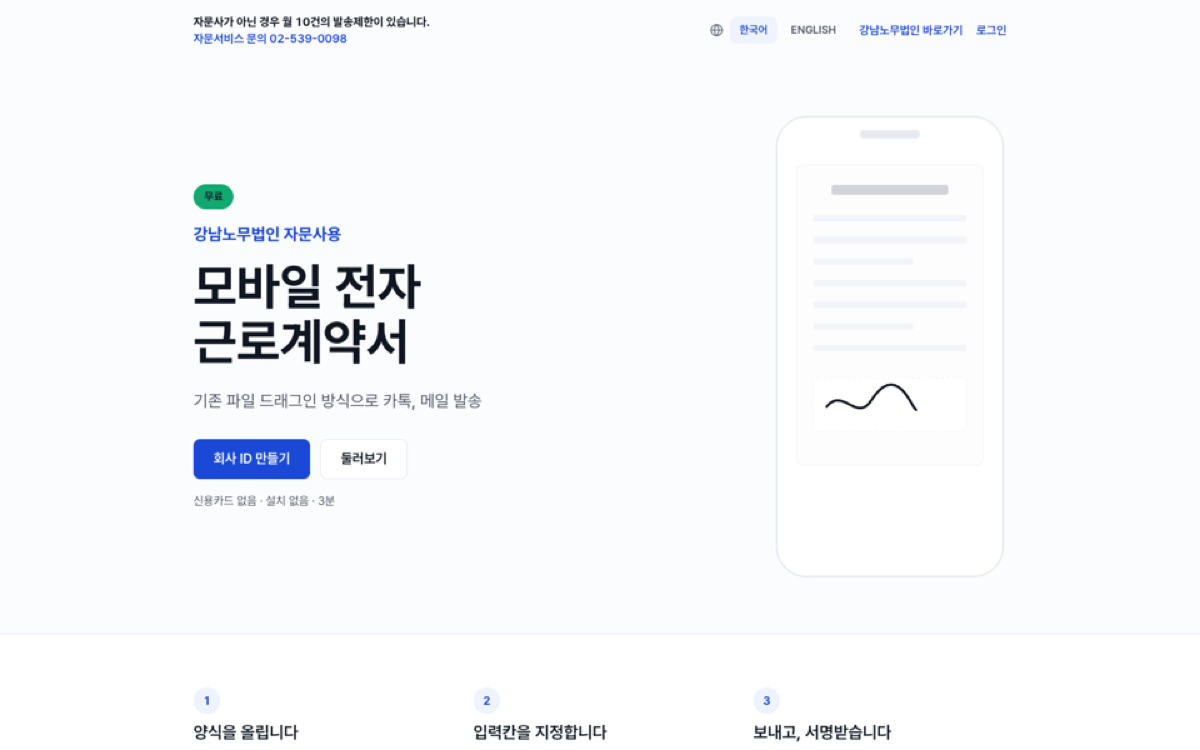
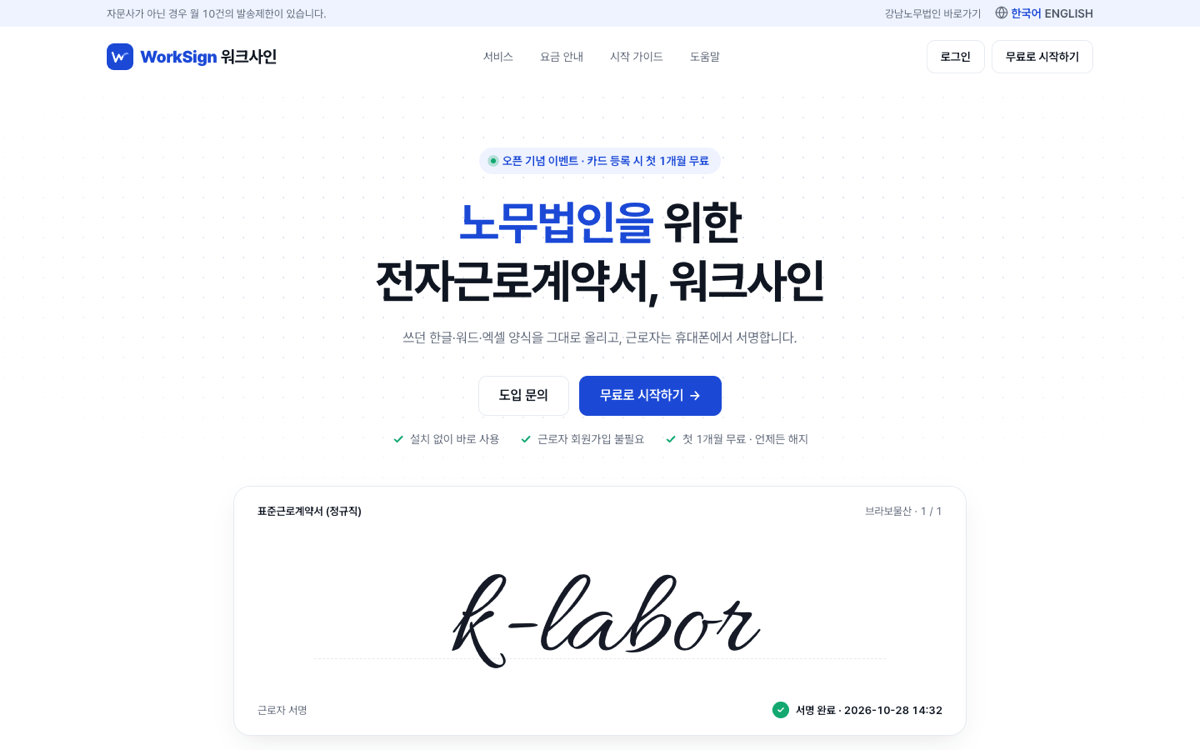
해커톤 출품작(바로시작) 상단 배치, WorkSign 개편 랜딩·GTO 커리큘럼 반영, 넷플릭스 단어장 추가

diff --git a/README.md b/README.md
@@ -3,6 +3,22 @@
 기획부터 배포까지 혼자 맡아, AI(Claude Code·Codex)를 개발 파트너로 써서 만든 결과물입니다.
 **AI가 코드를 쓰고, 저는 기획·설계·판단·검수를 맡습니다.** 명세 → 작업 계획 → 구현 → AI 다관점 검토 → 수정 순서로 반복합니다.
 
+## 고용노동부 고용24 AI 해커톤 출품작
+
+### 바로시작 — 국민취업지원제도 안내 시제품 (서류심사 통과)
+**https://cyb3rmaya.github.io/barosijak-demo/**
+
+메뉴가 많아 막막한 구직자에게 나이 질문 하나로 시작해, 해야 할 일을 날짜별로 정리해 주는 안내 시제품입니다.
+
+- **핵심 로직**: 대화로 상황 파악 → 수급자격 통지일 등 날짜로 이번 주 할 일·다가오는 기한·놓치면 사라지는 것 분류 → 큰 절차를 하루 한 가지 미션으로 쪼갬
+- **신뢰 설계**: 금액·기한은 AI가 만들지 않고 사람이 원문과 대조한 고정표만 사용 · 모든 안내에 업무매뉴얼 쪽수 근거 표기 · 자격 판정이 아님을 명시(최종 판단은 고용센터)
+
+| 시작 대화 | 내 날짜 일정 | 오늘의 미션 |
+|---|---|---|
+| <a href="https://cyb3rmaya.github.io/barosijak-demo/"><img src="shots/projects/barosijak/1-chat.png" width="220"></a> | <img src="shots/projects/barosijak/2-schedule.png" width="220"> | <img src="shots/projects/barosijak/3-mission.png" width="220"> |
+
+---
+
 ## 대표 프로젝트
 
 | | 서비스 | 링크 |
@@ -17,13 +33,20 @@
 ### 1. WorkSign — 모바일 전자근로계약서
 **https://worksign.co.kr**
 
-노무법인 의뢰로 만든 실서비스. 사업주가 한글·워드·PDF 계약서를 올려 입력칸을 지정하고 보내면, 근로자가 휴대폰으로 채우고 서명합니다. 서명 문서는 위·변조를 막도록 봉인됩니다.
+노무법인 의뢰로 만든 실서비스. 최근 랜딩을 4단계 흐름·기능 카드·근로자 휴대폰 시연 중심으로 전면 개편했습니다. 사업주가 한글·워드·PDF 계약서를 올려 입력칸을 지정하고 보내면, 근로자가 휴대폰으로 채우고 서명합니다. 서명 문서는 위·변조를 막도록 봉인됩니다.
 
 - **핵심 로직**: 문서 변환 → 입력칸 지정(텍스트·날짜·금액·서명·도장) → 일괄 발송 → 모바일 서명 → 봉인·보관 · 발송 실적·비회신 추적
 - **만든 방법**: Next.js 15 · Prisma · Postgres(Supabase) · 문서 처리 워커 · Docker · AWS 서울 서버
 - **AI 활용**: 고객 지시를 AI 작업 지침서로 정리해 변경 요청마다 근거를 남기고, AI가 구현한 결과를 자동 검사로 검증 — 테스트 329개 · 접근성(WCAG 2.2) 위반 0건 · Lighthouse 100점
 
 <a href="https://worksign.co.kr"><img src="shots/projects/worksign/landing.png" width="720" alt="WorkSign"></a>
+
+| 4단계 발송 흐름 | 기능 한눈에 보기 | 모바일 |
+|---|---|---|
+| <img src="shots/projects/worksign/landing-flow.png" width="360"> | <img src="shots/projects/worksign/landing-features.png" width="300"> | <img src="shots/projects/worksign/landing-m.png" width="160"> |
+| **근로자 휴대폰 서명 (앱 설치 없음)** | | |
+| <img src="shots/projects/worksign/landing-worker.png" width="360"> | | |
+
 
 | 입력칸 지정 에디터 | 근로자 모바일 서명 |
 |---|---|
@@ -46,19 +69,24 @@
 |---|---|---|---|---|
 | <a href="https://stockup.kratos1.cloud"><img src="shots/projects/stockup/home.png" width="150"></a> | <img src="shots/projects/stockup/market.png" width="150"> | <img src="shots/projects/stockup/detail.png" width="150"> | <img src="shots/projects/stockup/order.png" width="150"> | <img src="shots/projects/stockup/learn.png" width="150"> |
 
-### 3. GTO KRATOS — 포커 전략 학습·게임 웹앱
+### 3. GTO KRATOS — 포커 전략 학습·코칭 웹앱
 **https://kratos1.cloud/gtokrato**
 
-포커 전략(GTO)을 공부하고 바로 실전처럼 연습하는 웹앱. 홀덤 방·Sit & Go, 바카라, 블랙잭을 게임 머니로 즐깁니다.
+포커 전략(GTO)을 레벨에 맞춰 배우고, 선택마다 채점받으며 실전처럼 연습하는 웹앱입니다.
 
-- **핵심 로직**: 실시간 홀덤 테이블(캐시·싯앤고·헤즈업) · 선택마다 GTO 기준으로 채점하는 코칭(EV 손실·169핸드 전략표·솔버) · 첫 방문 언어·국가 선택(시간대 자동 감지)
-- **만든 방법**: 외부 라이브러리 없는 Node 서버 · 게임 엔진 · SQLite + Supabase 이중 저장
-- **AI 활용**: 게임 규칙·확률 엔진과 실시간 방 서버를 AI와 함께 설계·구현하고, 버전마다 AI 검토로 규칙 오류를 잡아냄
+- **강점**: 첫 방문 국가·언어 선택(시간대 자동 감지) · 수준을 고르면 첫 주 미션 3개와 단계별 커리큘럼(진단 → EV 입문 → GTO 입문 → 포스트플랍 → 승급 시험) 제안 · 선택마다 GTO 기준으로 채점하는 연습·코칭
+- **만든 방법**: 외부 라이브러리 없는 Node 서버 · 게임·확률 엔진 · SQLite + Supabase 이중 저장
+- **AI 활용**: 게임 규칙·확률 엔진과 학습 흐름을 AI와 함께 설계·구현하고, 버전마다 AI 검토로 규칙 오류를 잡아냄
 
-<a href="https://kratos1.cloud/gtokrato"><img src="shots/projects/gtokrato/home.png" width="720" alt="GTO KRATOS"></a>
+<a href="https://kratos1.cloud/gtokrato"><img src="shots/projects/gtokrato/curriculum.png" width="720" alt="커리큘럼 제안"></a>
 
-| 홀덤 플레이 | GTO 코칭 (선택마다 채점·EV 손실·전략표) |
+| 국가·지역 선택 | 언어 선택 |
 |---|---|
+| <img src="shots/projects/gtokrato/region.png" width="480"> | <img src="shots/projects/gtokrato/language.png" width="480"> |
+| **학습 허브** | **연습 설정 (GTO 문제 훈련)** |
+| <img src="shots/projects/gtokrato/study.png" width="480"> | <img src="shots/projects/gtokrato/practice.png" width="480"> |
+
+---|---|
 | <img src="shots/projects/gtokrato/play.png" width="480"> | <img src="shots/projects/gtokrato/coach.png" width="480"> |
 | **첫 방문 언어 선택 (14개 언어)** | **국가·시간대 선택 (자동 감지)** |
 | <img src="shots/projects/gtokrato/language.png" width="480"> | <img src="shots/projects/gtokrato/region.png" width="480"> |
@@ -146,6 +174,18 @@ export function matchLocalIntent(utterance: string, enabled: readonly LocalInten
 
 ---
 
+## 그 밖의 프로그램
+
+### 넷플릭스 영어 단어장 (크롬 확장)
+넷플릭스 영어 자막에서 모르는 단어를 눌러 저장하고, 토익·비즈니스 빈출 등급까지 함께 보여 주는 단어장입니다.
+
+- **기능**: 자막 단어 클릭·드래그로 뜻·발음 저장 · 토익/비즈니스 태그와 ★ 중요도 · SM-2 간격 반복 복습 · Anki 내보내기 · 모바일 이어 복습
+- **만든 방법**: Chrome 확장(Manifest V3) · 바닐라 JS · Supabase 동기화
+
+<img src="shots/projects/netflix-vocab/vocab.png" width="480" alt="단어장 화면">
+
+---
+
 ## 웹사이트 디자인 시안
 
 링크나 이미지를 누르면 실제 사이트가 열립니다.
@@ -214,10 +254,3 @@ export function matchLocalIntent(utterance: string, enabled: readonly LocalInten
 <a href="https://cyb3rmaya.github.io/egattoc-wellness/"><img src="shots/designs/egattoc/home.png" width="49%" alt="웰니스 쇼핑몰"></a>
 
 - 쇼핑몰: https://cyb3rmaya.github.io/egattoc-wellness/
-
-### 청년 취업지원제도 안내 챗봇 (시제품)
-질문 몇 개로 받을 수 있는 지원금을 안내하는 챗봇 시제품.
-
-<a href="https://cyb3rmaya.github.io/barosijak-demo/"><img src="shots/designs/barosijak/home.png" width="49%" alt="안내 챗봇"></a>
-
-- 챗봇: https://cyb3rmaya.github.io/barosijak-demo/
